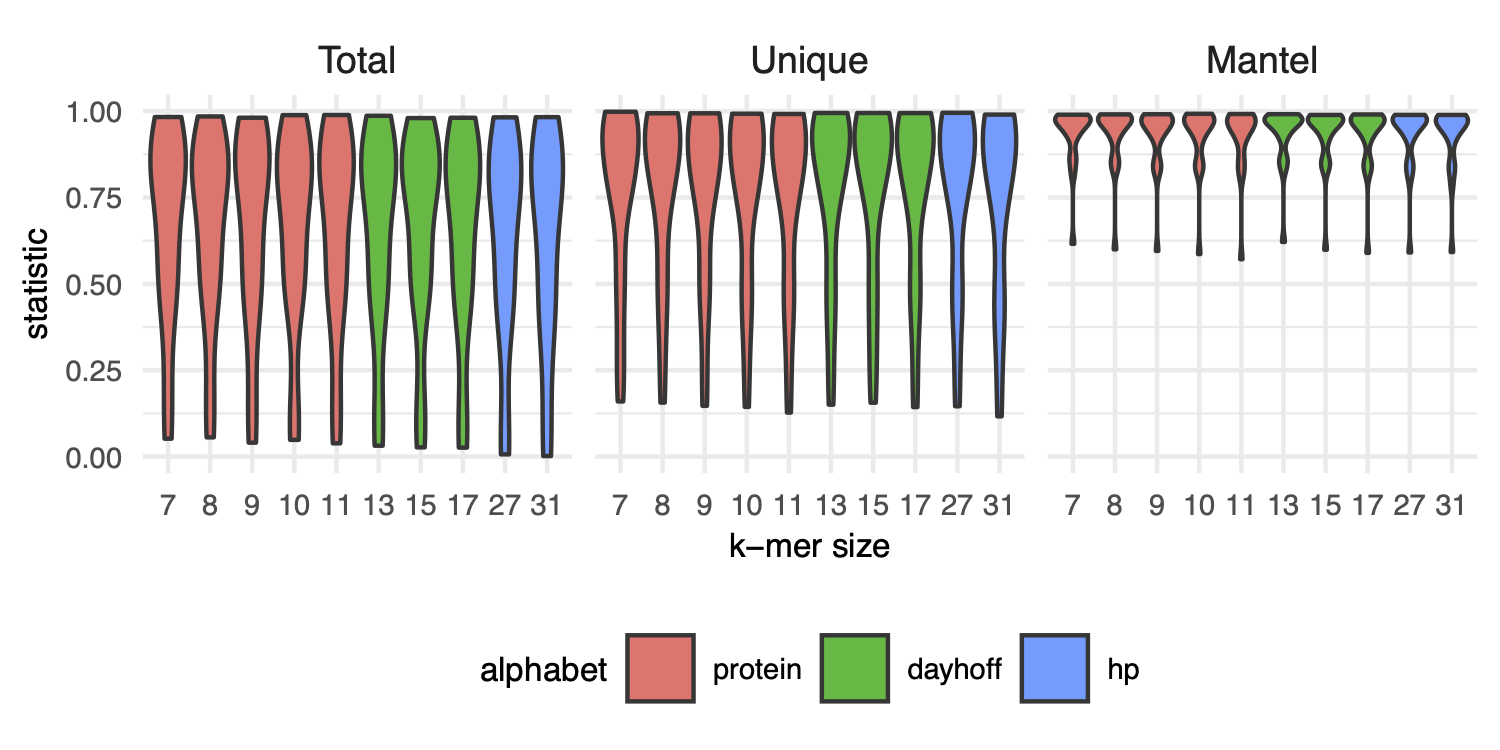
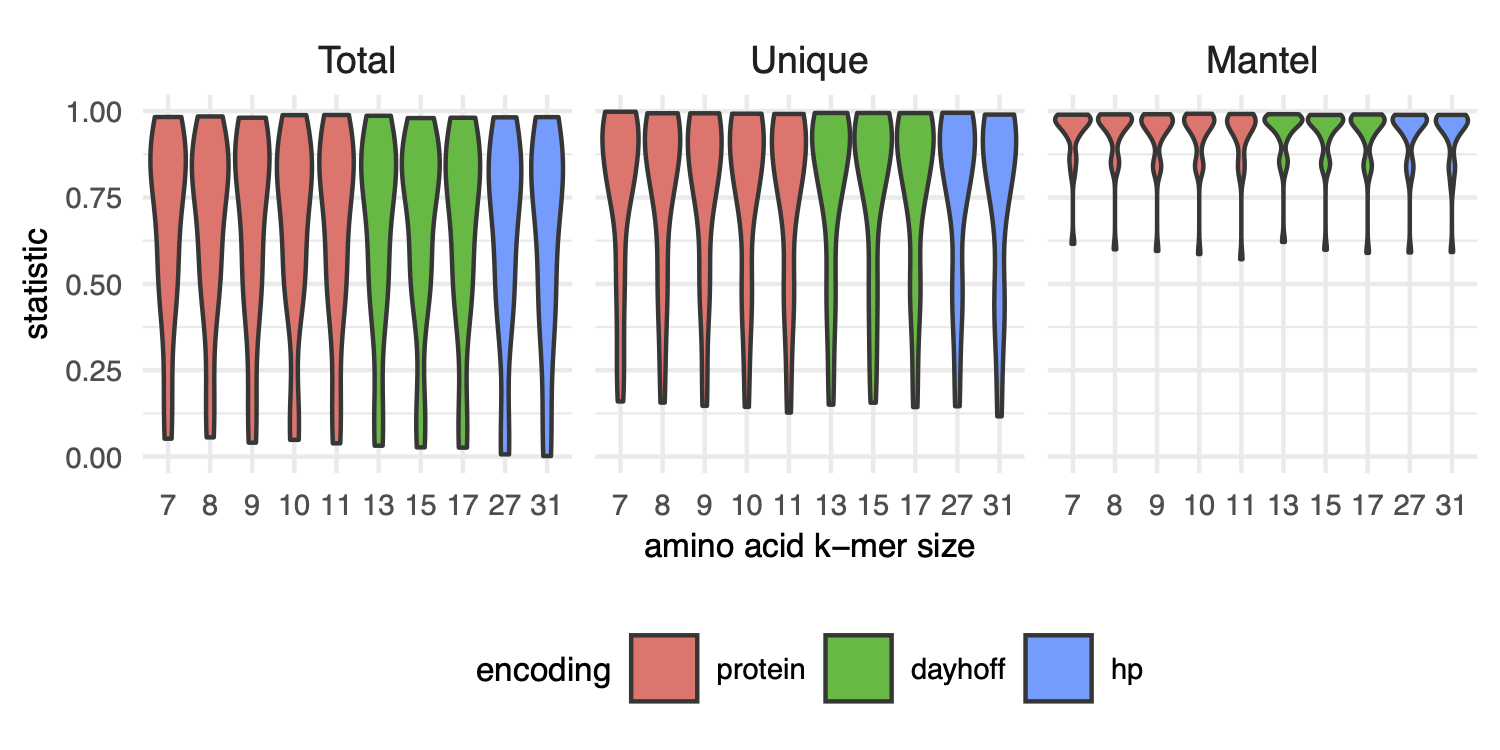
address minor comments from titus in #2

diff --git a/content/03.results.md b/content/03.results.md
@@ -6,45 +6,43 @@ We demonstrate ... / summarize results or something here
 **Organisms used in this paper**
 ](images/tree_fig.png "tree fig"){#fig:tree_fig}
 
-## Reduced alphabet k-mers accurately estimate microbial pangenomes
+## Reduced alphabet k-mers accurately estimate characteristics of microbial pangenomes
 
 Pangenomes from isolates are typically built by assembling each isolate genome and predicting genes (open reading frames), clustering gene sequences from all genomes into a non-redundant set, and estimating the presence/absence or abundance of each gene in each genome. 
 To determine whether bacterial and archaeal pangenomes could be constructed from reduced alphabet k-mers, we compared pangenomes estimated from genes against those estimated from k-mers (amino acid, dayhoff, and hydrophobic-polar).
-We compared pangenomes from 23 species belonging to 23 phyla in the GTDB taxonomy (CITE), with pangenome size ranging from 20-972 genomes (mean = 203 genomes).
+We compared pangenomes from 23 species belonging to 23 phyla in the GTDB taxonomy (CITE), with pangenome size ranging from 20-972 genomes (mean = 203 genomes, median = 44 genomes).
 For each pangenome, we compared the total number of genes to the total number of k-mers, and the number of unique genes to the number of distinct k-mers within each genome.
 We also tested the similarity of presence/absence profiles between pangenomes constructed with different methods using the Mantel test.
 
 For these three metrics, performance varied minimally across encodings and k-mer sizes (**Figure @fig:violin_fig**).
-This is likely because the genomes of the same species are closely related, so any reduced alphabet k-mer is sufficient to overcome minor variations such as those introduced by codon degeneracy or evolutionary drift (CITE).
+This is likely because the genomes of the same species are closely related, so any reduced alphabet k-mer is sufficient to overcome minor genomic variations such as those introduced by codon degeneracy or evolutionary drift (CITE).
 Given that neither encoding nor k-mer size impacted these performance metrics, we selected protein k-mers with k = 10 to complete the rest of our analysis.
 Protein k-mers of length 10 have recently been shown to perform well for comparisons across variable taxonomic distances (CITE: TESSA).
 
-
-+ Do I need to discuss scaled at all? Or do I need to show a comparison to a scaled of 1 here? I have it for 12 of the species, and the numbers are similar enough to scaled 100 that I stopped wasting the compute on scaled 1
 + Should I compare this against nucleotide k-mers at all? Bc I think that's the underlying assumption here, nucleotides don't work for this stuff. Tessa stuff sort of already shows this.
 
 ![
-**K-size and alphabet do not impact pangenome estimation with k-mers.** Violin plots representing the distribution of R^2^ values for linear models (Total, Unique) or statistic values for mantel tests (Mantel) calculated for each pangenome. *Total* corresponds to correlations between the total number of distinct genes and k-mers in a genome. *Unique* corresponds to correlations between the number of unique genes and k-mers in genome. *Mantel* corresponds to mantel tests between the gene and k-mer presence-absence matrices.
+**K-mer size and encoding do not impact pangenome estimation with k-mers.** Violin plots representing the distribution of R^2^ values for linear models (Total, Unique) or statistic values for mantel tests (Mantel) calculated for each pangenome. *Total* corresponds to correlations between the total number of distinct genes and k-mers in a genome. *Unique* corresponds to correlations between the number of unique genes and k-mers in genome. *Mantel* corresponds to mantel tests between the gene and k-mer presence-absence matrices.
 ](images/violin_fig.png){#fig:violin_fig}
 
 While performance across metrics was similar for  encodings and k-mer sizes, it varied dramatically for different pangenomes: both k-mers and genes are highly correlated for some pangenomes and are not correlated for others (**Figure @fig:violin_fig**). 
 We investigated pangenomes more closely to determine the source of the poor correlations and found that they were caused by the presence of many frameshifted proteins, one of many potential criteria for exclusion of GenBank genomes from RefSeq.
 For example, *Leptospira interrogans* had an R^2^ of 0.12 between the total number of genes and k-mers in genomes in the pangenome, but 21 of 317 genomes contained frameshifted proteins. 
-Removing these genomes increased the R^2^ to 0.87 (**Figure @fig:frameshift_fig A,B**).
-This trend was consistent across pangenomes, where pangenomes with one or more frameshift-excluded genome had significantly lower R^2^ values between total number of genes and k-mers per genome than pangenomes without (Welch Two Sample t-test, estimate = -0.36, p = 0.003) (**Figure @fig:frameshift_fig C**).
+Removing these genomes increased the R^2^ to 0.87 (**Figure @fig:frameshift_fig A**).
+This trend was consistent across pangenomes, where pangenomes with one or more frameshift-excluded genome had significantly lower R^2^ values between total number of genes and k-mers per genome than pangenomes without (Welch Two Sample t-test, estimate = -0.36, p = 0.003) (**Figure @fig:frameshift_fig B**).
 Other RefSeq exclusion criteria did not impact the correlation between the total genes and k-mers per genome for a given pangenome.
 
 ![
 **Genomes that are excluded from RefSeq for having many frameshifted proteins reduce similarity between gene- and k-mer-based pangenomes.**
-**A, B)** Scatter plots of the total number of distinct genes and k-mers per genome for the species *Leptospira interrogans*, where each point represents a single genome in the pangenome. 
+**A)** Scatter plot of the total number of genes and k-mers per genome for the species *Leptospira interrogans*, where each point represents a single genome in the pangenome. 
 Removing genomes flagged with RefSeq exclusion criteria "many frameshifted proteins" improves the correlation between these variables. 
-**C)** Box plot of R^2^ values between the total number of distinct genes and k-mers per genome. 
+**B)** Box plot of R^2^ values between the total number of genes and k-mers per genome. 
 Pangenomes that contain genomes with the RefSeq exclusion criteria of "many frameshifted proteins" have significantly lower R^2^ values
 ](images/frameshift_fig.png){#fig:frameshift_fig}
 
-We next investigated whether other pangenome metrics were well correlated between k-mer-based and gene-based methods using pangenomes that did not contain genomes excluded from RefSeq for having many frameshifted proteins.
+We next investigated whether other pangenome metrics were well correlated between our k-mer-based and the gene-based method roary using pangenomes that did not contain genomes excluded from RefSeq for having many frameshifted proteins (see Methods for details).
 For these 13 pangenomes, the percent of k-mers or genes predicted to be part of the core, shell, or cloud pangenome was strongly correlated (**Figure @fig:pg_fig**).
-We also compared whether pangenomes would be designated as open or closed by calculating the alpha value for the Heaps law model. 
+We also compared whether pangenomes would be designated as open or closed by calculating the alpha value for the Heaps law model (CITE). 
 Alpha values were strongly correlated between gene- and k-mer based pangenomes (**Figure @fig:pg_fig**). 
 
 ![
@@ -53,23 +51,28 @@ Alpha values were strongly correlated between gene- and k-mer based pangenomes (
 
 Taken together, these results show that reduced alphabet k-mers can accurately estimate key characteristics of pangenomes from bacterial and archaeal genomes.
 
-## Jaccard containment between reduced alphabet k-mers and k-mers in databases accurately predicts open reading frames in short sequencing reads
+## K-mer methods accurately predicts open reading frames in short sequencing reads
 
 We next sought to determine whether open reading frames could be accurately predicted directly from short sequencing reads, as this would enable k-mer-based pangenome analysis without assembly.
+Without accurate open reading frame prediction, reads would need to be translated into all six translation frames prior to k-mer decomposition.
+This would inflate the number of k-mers and decrease similarity between genomes.
+
 We evaluated whether orpheum, a tool recently developed to predict open reading frames in Eukaryotic short reads [@doi:10.1101/2021.07.09.450799], could also perform this task in bacterial and archaeal sequences.
 Orpheum predicts open reading frames by comparing reduced alphabet k-mers in six frame translations of short sequencing reads against those in a database (Jaccard containment) and assigns an open reading frame as coding if containment exceeds a user-defined threshold [@doi:10.1101/2021.07.09.450799].
 To evaluate orpheum, we constructed a database containing all k-mers in coding domain sequences from genomes in GTDB rs202.
 Using representative genomes from the 23 species above, as well as 20 additional RefSeq genomes not in the GTDB rs202 database, we simulated short sequencing reads either from coding domain sequences or non-coding sequences and used these reads to test orpheum.
 
 Using default parameters, orpheum accurately separated coding from non-coding reads when reads were simulated from genomes in GTDB (**Figure @fig:orpheum_fig A**).
+On average, XX% of reads that were coding were predicted to be non-coding, while XX% of reads that were non-coding were predicted to be coding.
 For reads simulated from genomes not in GTDB, orpheum recovered the majority of coding reads when genomes of the same species were in the database (**Figure @fig:orpheum_fig A,B**).
+On average, XX% of reads that were coding were predicted to be non-coding, while XX% of reads that were non-coding were predicted to be coding.
 Accuracy decreased with increasing taxonomic distance between the query genome and the closest relative in the database (**Figure @fig:orpheum_fig B**).
 
 For genomes that had at least species-level representatives in GTDB, the largest source of error was non-coding reads being predicted as coding (**Figure @fig:orpheum_fig A**).
 We hypothesized that these reads originated from pseudogenes as these sequences would likely not be annotated as coding in the genomes from which the reads were simulated from, but may retain some k-mers contained in the database.
 To assess this hypothesis, we used annotation files produced by the NCBI Prokaryotic Genome Annotation Pipeline (PGAP), which annotates pseudogenes, for the 23 genomes for which these files were available [@doi:10.1093/nar/gkw569; @doi:10.1093/nar/gkaa1105].
 On average, 12.4% (SD = 13.8%) of non-coding reads that were predicted to be coding fell within pseudogenes annotated by the PGAP pipeline.
-We then BLASTed a subset of the remaining non-coding read that were predicted to be coding against the NCBI nr database.
+We then BLASTed a subset of the remaining non-coding reads that were predicted to be coding against the NCBI nr database.
 All reads we investigated had at least one match at 100% identity to protein sequences in the database, suggesting our test genomes contained additional pseudogenes not annotated by PGAP, or that the software we used to predict open reading frames missed some coding sequences (see Methods).
 <!--Indeed, the worst performer was *Mycoplasmopsis bovis*, with 23% of non-coding reads predicted to be coding. 
 *M. bovis* causes bovine tuberculosis and its genome contains signatures of genomic decay and pseudogenization [@doi:10.3389/fmicb.2017.02389], processes that may be linked to bacterial host specialization [@doi:10.1101/cshperspect.a010041; @doi:10.1093/gbe/evv135].-->

diff --git a/content/04.discussion.md b/content/04.discussion.md
@@ -1,7 +1,7 @@
 # Discussion
 
 We present a method to perform assembly-free metapangenomics that is minimally reliant on reference databases.
-We show that pangenome metrics like core, cloud, and shell pangenome fractions can be accurately estimated with long amino acid k-mers and k-mers from other reduced alphabets.
+We show that pangenome metrics like core, cloud, and shell pangenome fractions can be accurately estimated with long amino acid k-mers.
 We then demonstrate accurate prediction of open reading frames in highly accurate short sequencing reads by comparing amino acid k-mers in all translation frames against a database of k-mers from all known bacterial and archaeal genomes in GTDB (rs202).
 Combining these tools enables pangenome estimation directly from quality controlled short sequencing reads.
 In the context of metagenomes, these approaches enable metapangenome estimation without the need to *de novo* assemble and bin sequences, eliminating common sources of lost sequencing variation (cite spacegraphcats). These techniques also reduce the dependence of metapangenomics on complete or comprehensive reference databases, which can be important for understudied environments.
@@ -12,6 +12,8 @@ A targeted query of an assembly graph, for example with a metagenome-assembled g
 While recovering these reads and assigning their taxonomic identity through graph queries is useful, many of the recovered reads cannot be assembled due to prolific sequencing variation attributable to strain diversity in the original microbial community.
 Yet, the sequences represented by these un-assembleable reads often encode functional potential, some of which may be key to a microorganisms functioning within its ecosystem (cite sumner paper?; metachercant).
 The approaches presented in this paper enable these sequences to be represented in metapangenome estimation.
+
++ from #2 titus: it might be good (somewhere) to talk about how working with reads is better than working with cDBGs, because in regions of high error / high variation, the cDBG nodes or often shorter than reads.
 
 Long read sequencing of microbial communities stands to improve many of these challenges, particularly as lineage-resolved methods become mainstream (cite bickhart et al.).
 Even as long read technologies improve, short read sequences continue to better capture strain diversity from a community (Cite Maureen?). 

diff --git a/content/02.introduction.md b/content/02.introduction.md
@@ -15,8 +15,7 @@ The size of the pangenome reflects the diversity of the organisms in a pangenome
 Open pangenomes are those which increase indefinitely in size when adding new genomes, while closed pangenomes do not.
 
 While pangenomes are traditionally inferred from isolate genomes, metapangenomics extends the ecological framework of pangenomics to metagenomes.
-Metapangenomes reflect the metabolic and ecological plasticity of populations of microbes and give insights into the genes that support specific environmental adaptations [@doi:10.1038/s41396-019-0516-7].
-This is achieved either through the application of pangenome methods to metagenome assembled genomes (MAGs) (CITE), or by mapping metagenomes against isolate-inferred pangenomes (CITE: Delmont).
+Metapangenomics gives insight into the genes that support specific environmental adaptations [@doi:10.1038/s41396-019-0516-7] by applying pangenome methods to metagenome assembled genomes (MAGs) (CITE), or by mapping metagenomes against isolate-inferred pangenomes (CITE: Delmont).
 Both methods give valuable insight into the presence and distribution of functional content in natural microbial communities, but either may introduce biases associated with unknown sequencing content (CITE: Segata, unknown).
 MAGs are often incomplete or unrecoverable due to low sequencing coverage or large amounts of variation (SNPs, indels, rearrangements, horizontal gene transfer, sequencing error, etc.), both of which cause short read assemblers to produce unbinnable short contiguous sequences.
 Unbinned sequences are disproportionately comprised of genomic islands and plasmids [@doi:10.1099/mgen.0.000436], hot spots for evolution that support microbial adaptation to changing environments [@doi:10.1101/2021.03.15.435471].
